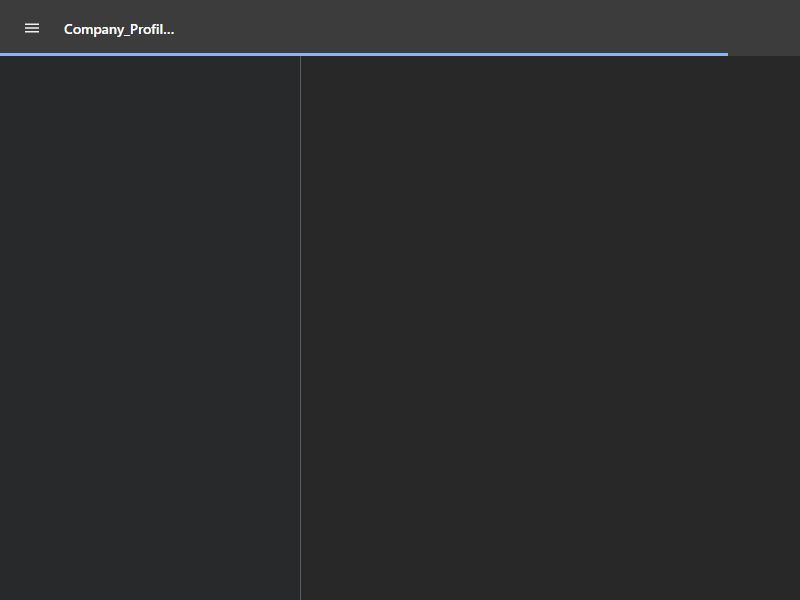
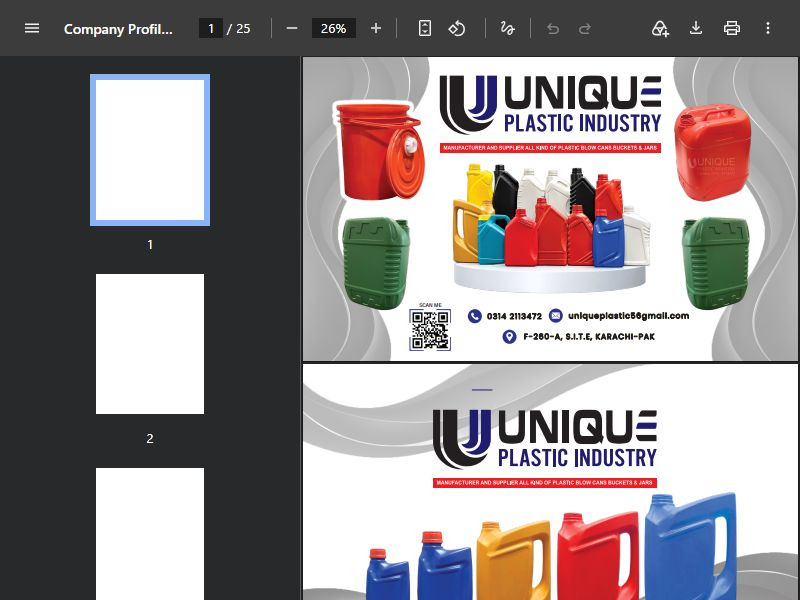
Verify completed Chrome catalog rendering and page counts

diff --git a/docs/uat-3a/CATALOG-DOWNLOAD-UPDATE.md b/docs/uat-3a/CATALOG-DOWNLOAD-UPDATE.md
@@ -24,7 +24,7 @@ Manifest schema v2 retains exact v1 information-sheet URLs and exposes only the 
 - Full existing suites after the implementation: 298/298 backend and 323/323 React tests passed.
 - Additional focused assertions: 10/10 backend download/integrity/retained-URL tests and 8/8 React PDF/mapping/image/content tests passed. These include the new explicit owner mapping and all three old v1 URLs.
 - All 28 original and optimized PDF pages have identical extracted text and page geometry. All 28 rendered pages compared at identical size; maximum per-channel RGB RMS difference is 1.179/255. Bucket pages are effectively unchanged; original/optimized bottles contact sheets were visually reviewed without missing artwork, altered layout or lost labels.
-- Chrome: all three requested buttons clicked, downloaded, checksum-verified and opened in the real PDF viewer on local Node, Vite and extracted Node: nine downloads/viewer opens. Source-catalog evidence is separate from initial UAT-3A evidence in `evidence/catalog-update/browser/`.
+- Chrome: all three requested buttons clicked, downloaded, checksum-verified and opened in the real PDF viewer on local Node, Vite and extracted Node: nine downloads/viewer opens. Final checks wait for Chrome PDF viewer load state `success` and assert 3/25/25 pages before screenshots; initial premature loading-screen captures were replaced after this stronger readiness check. Source-catalog evidence is separate from initial UAT-3A evidence in `evidence/catalog-update/browser/`.
 - Responsive checks: three changed product pages at 390 and 1440 pixels on local and extracted Node, twelve route/width checks; no horizontal overflow, broken images or page errors.
[1 lines of base64/hex data omitted]
 - The earlier 70-viewpoint/Lighthouse results remain initial-milestone evidence; Lighthouse was not rerun for this download-only mapping update. No layout/CSS or image-gallery implementation changed.
